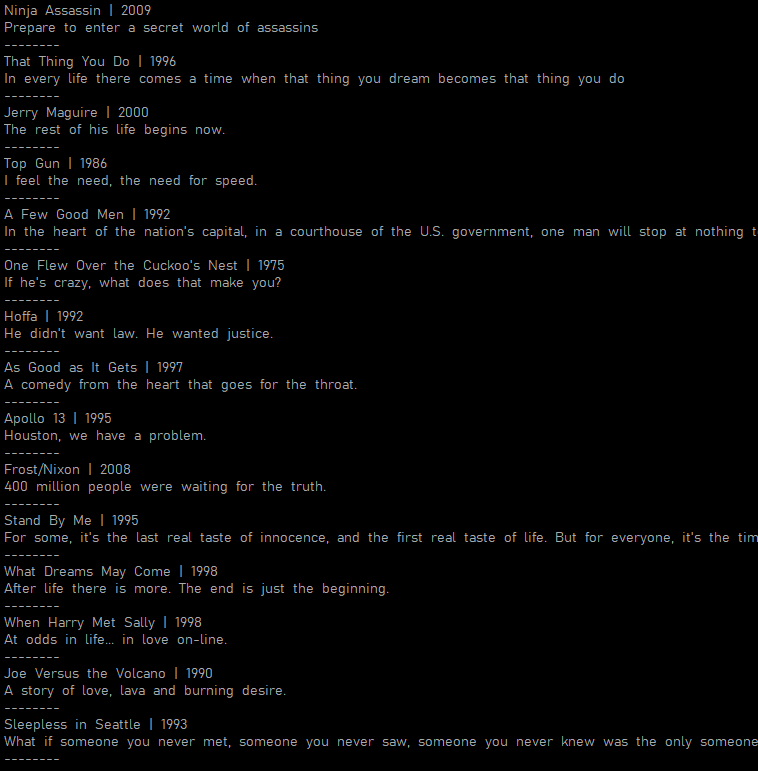
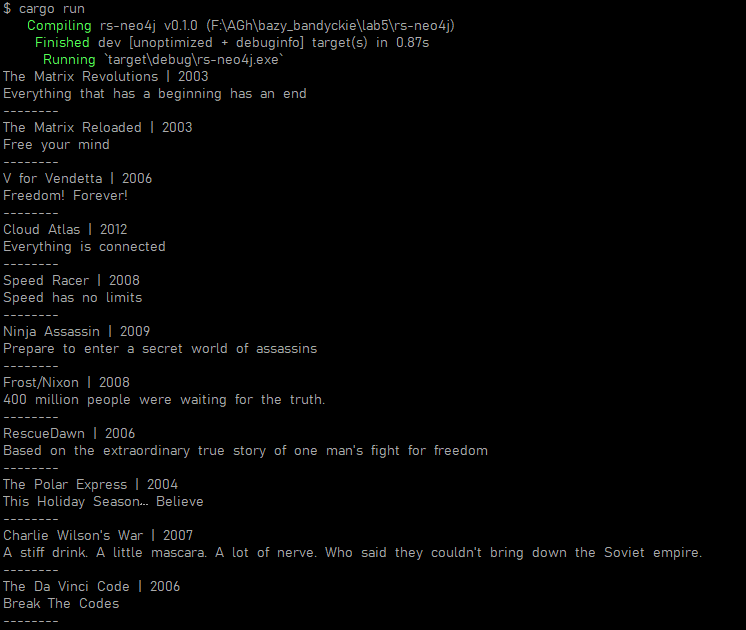
Add WHERE clause

diff --git a/lab5/rs-neo4j/src/main.rs b/lab5/rs-neo4j/src/main.rs
@@ -14,7 +14,8 @@ fn main() -> Res<()> {
 }
 
 fn zadanie3(graph: &mut GraphClient) -> Res<()> {
-    let result = graph.exec("MATCH (n:Movie) RETURN n.title, n.tagline, n.released LIMIT 25")?;
+    let result = graph.exec(
+        "MATCH (n:Movie) WHERE n.released > 2000 RETURN n.title, n.tagline, n.released LIMIT 25")?;
 
     for row in result.rows() {
         let (title, tagline, release) =
